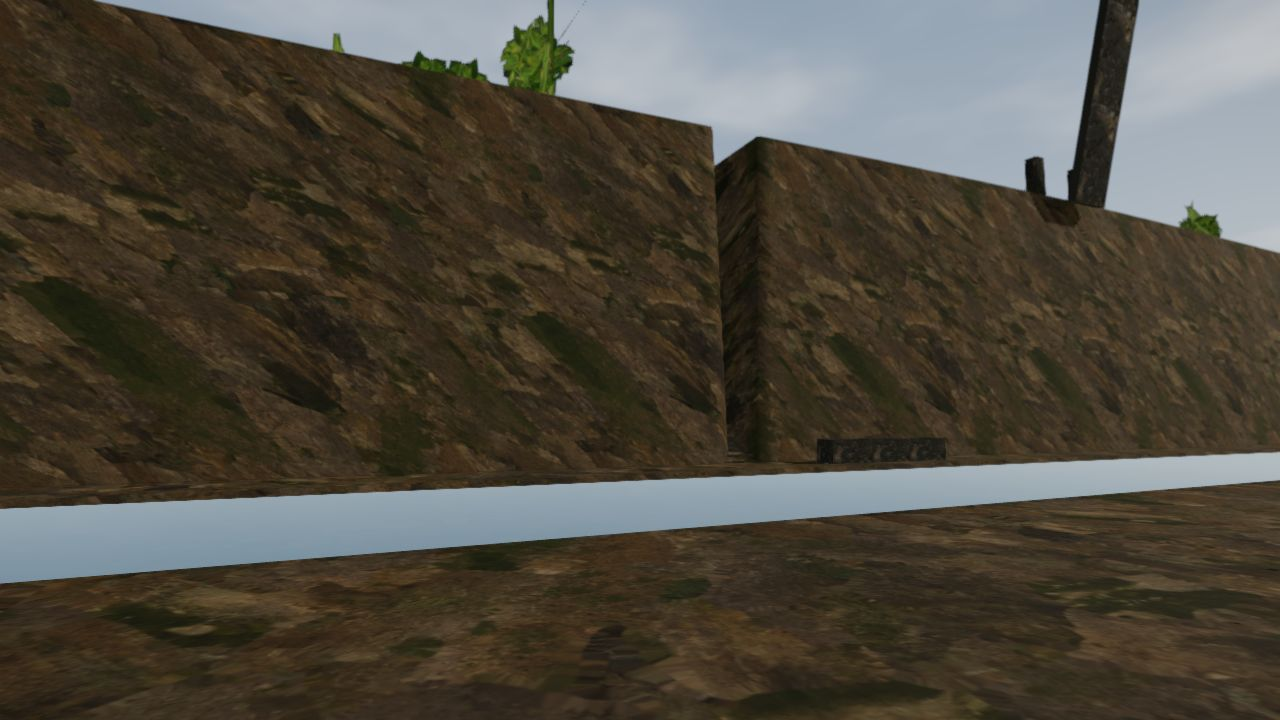
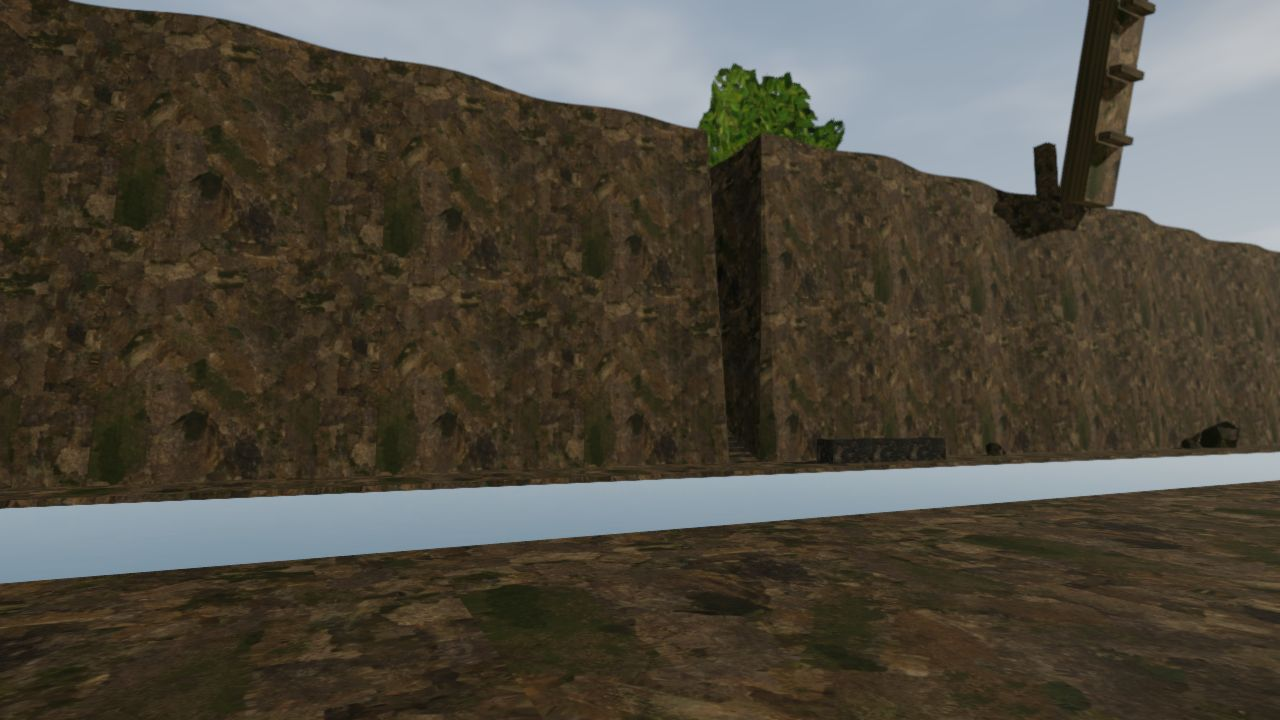
Acte VI, les décors de la rive : la roche des parois projetée face par face (plus de stries), les falaises irrégulières, la Blessure qui serpente jusqu'à l'horizon (elle s'ouvrait sur le ciel, et un plan d'herbe la comblait vue d'en haut), les éboulis, les bosquets, la croix de chemin, un pont de pi

diff --git a/rive.js b/rive.js
@@ -34,13 +34,17 @@ const RIVIERE = [-8, 8], EAU = FOND - 0.3;                         // la rivièr
 const ESC = { x0: -2, x1: 2, z0: SUD, z1: -62, pas: 0.8, haut: 0.4 };   // l'escalier des géants, taillé dans la paroi sud
 const TROUS = [[10, 11.6], [24, 25.6], [38, 39.6]];                // les marches tombées, en mètres le long de l'escalier
 const PONT = { x0: 38, x1: 42 };                                   // le vieux pont des géants, quand il est abaissé
-const BORNES = { x0: -120, x1: 120, z0: -110, z1: 90 };
+const BORNES = { x0: -120, x1: 120, z0: -110, z1: 90 }, LOIN = 760;   // LOIN : jusqu'où la Blessure se voit
 const DEPART = { x: 0, z: 55, yaw: Math.PI };
 const marches = () => state.marches6 || 0;
 
 // la plaine : quelques ondulations, à peine (la Flandre est plate)
 const plaine = (x, z) => Math.sin(x * 0.045) * 0.35 + Math.cos(z * 0.06 + x * 0.02) * 0.3;
+// hors des bornes, la Blessure serpente (tirée au cordeau jusqu'à l'horizon, elle avait l'air d'un fossé) ;
+// entre les bornes elle reste droite : les corniches, l'escalier et le pont y sont posés
+const courbe = (x) => { const d = Math.abs(x) - BORNES.x1; return d > 0 ? Math.sin(d / 70) * 26 * Math.sign(x) * Math.min(1, d / 60) : 0; };
 function relief(x, z) {
+  z -= courbe(x);
   if (z >= BORD_N) return plaine(x, z);
   for (const [z0, z1, y] of CORNICHES) if (z >= z0 && z < z1) return y;
   if (z >= SUD) return z > RIVIERE[0] && z < RIVIERE[1] ? FOND - 1.5 : FOND;      // le lit de la rivière, plus bas
@@ -81,12 +85,23 @@ const TRONCS = [];
 // ---------- le décor ----------
 const R = { eau: null, pont: null, blocs: [] };
 function terrain() {
-  // une grille d'un mètre sur le canyon, deux mètres au-delà : deux maillages sur les mêmes sommets —
-  // l'herbe là où l'on est en haut, la roche dans la Blessure
-  const nx = 241, nz = 201, pos = new Float32Array(nx * nz * 3), uv = new Float32Array(nx * nz * 2);
+  // une grille d'un mètre entre les bornes ; au-delà, de quatre mètres, la Blessure qui file à l'est et à
+  // l'ouest jusqu'à l'horizon (coupée aux bornes, elle s'ouvrait sur le ciel). Deux maillages sur les mêmes
+  // sommets : l'herbe là où l'on est en haut, la roche dans la Blessure
+  const XS = [];
+  for (let x = -LOIN; x < BORNES.x0; x += 4) XS.push(x);
+  for (let x = BORNES.x0; x <= BORNES.x1; x++) XS.push(x);
+  for (let x = BORNES.x1 + 4; x <= LOIN; x += 4) XS.push(x);
+  const nx = XS.length, nz = 201, pos = new Float32Array(nx * nz * 3), uv = new Float32Array(nx * nz * 2);
   for (let j = 0; j < nz; j++) for (let i = 0; i < nx; i++) {
-    const x = BORNES.x0 + i, z = BORNES.z0 + j, k = j * nx + i;
-    const y = relief(x, z); pos.set([x, y, z], k * 3); uv.set([(x + y) / 3, (z - y) / 3], k * 2);   // ± y : les parois, en travers de x comme de z, ne s'étirent pas
+    const x = XS[i], z = BORNES.z0 + j, k = j * nx + i;
+    const y = relief(x, z);
+    // une paroi tirée au cordeau a l'air d'un mur : ses sommets s'écartent un peu (le sol où l'on marche,
+    // relief(), ne bouge pas ; l'écart, d'un mètre au plus, reste dans la roche)
+    let dx = 0, dz = 0;
+    if (Math.abs(relief(x, z - 1) - y) > 2 || Math.abs(relief(x, z + 1) - y) > 2) dz = Math.sin(x * 0.53 + y * 0.71) * 0.45 + Math.sin(x * 0.17 - y * 0.29) * 0.55;
+    if (Math.abs(relief(x - 1, z) - y) > 2 || Math.abs(relief(x + 1, z) - y) > 2) dx = Math.sin(z * 0.61 + y * 0.83) * 0.25;
+    pos.set([x + dx, y, z + dz], k * 3); uv.set([(x + y) / 3, (z - y) / 3], k * 2);   // ± y : les parois, en travers de x comme de z, ne s'étirent pas
   }
   const haut = [], bas = [];
   for (let j = 0; j < nz - 1; j++) for (let i = 0; i < nx - 1; i++) {
@@ -97,13 +112,27 @@ function terrain() {
   const fais = (idx, m) => { const g = new THREE.BufferGeometry(); g.setAttribute('position', new THREE.BufferAttribute(pos, 3)); g.setAttribute('uv', new THREE.BufferAttribute(uv, 2)); g.setIndex(idx); g.computeVertexNormals();
     const o = new THREE.Mesh(g, m); o.receiveShadow = true; scene.add(o); return o; };
   fais(haut, phMat('grass_ground', 1, 1, { color: 0x9aae78 }));
-  fais(bas, phMat('falaise_02', 1, 1, { color: 0xb8ae9c }));
+  // la roche : chaque triangle projeté sur le plan qui lui fait face (des sommets à lui) — avec des UV
+  // partagés, une paroi en travers de x prenait u et v tous deux du seul y, et la pierre filait en stries
+  { const n = bas.length, p = new Float32Array(n * 3), t = new Float32Array(n * 2), A = new THREE.Vector3(), B = new THREE.Vector3(), C = new THREE.Vector3(), N = new THREE.Vector3();
+    for (let k = 0; k < n; k += 3) {
+      A.fromArray(pos, bas[k] * 3); B.fromArray(pos, bas[k + 1] * 3); C.fromArray(pos, bas[k + 2] * 3);
+      N.subVectors(C, B).cross(A.clone().sub(B)); const ax = Math.abs(N.x), ay = Math.abs(N.y), az = Math.abs(N.z);
+      [A, B, C].forEach((v, q) => { p.set([v.x, v.y, v.z], (k + q) * 3);
+        t.set(ay >= ax && ay >= az ? [v.x / 4, v.z / 4] : ax > az ? [v.z / 4, v.y / 4] : [v.x / 4, v.y / 4], (k + q) * 2); }); }
+    const g = new THREE.BufferGeometry(); g.setAttribute('position', new THREE.BufferAttribute(p, 3)); g.setAttribute('uv', new THREE.BufferAttribute(t, 2)); g.computeVertexNormals();
+    const o = new THREE.Mesh(g, phMat('falaise_02', 1, 1, { color: 0xb8ae9c })); o.receiveShadow = true; scene.add(o); }
   // au-delà des bornes, la plaine qui file à l'horizon
-  const loin = new THREE.Mesh(new THREE.PlaneGeometry(3000, 3000), phMat('grass_ground', 300, 300, { color: 0x8a9e6c })); loin.rotation.x = -Math.PI / 2; loin.position.y = -0.4; scene.add(loin);
+  // (quatre bandes autour des bornes : un seul plan à −0,4 m comblait la Blessure, vue d'en haut)
+  const herbe = phMat('grass_ground', 1, 1, { color: 0x8a9e6c }), L = 1500;
+  for (const [x0, x1, z0, z1] of [[-L, L, -L, BORNES.z0 + 0.5], [-L, L, BORNES.z1 - 0.5, L], [-L, -LOIN + 0.5, BORNES.z0, BORNES.z1], [LOIN - 0.5, L, BORNES.z0, BORNES.z1]]) {
+    const o = new THREE.Mesh(new THREE.PlaneGeometry(x1 - x0, z1 - z0), herbe.clone()); o.material.map = o.material.map && o.material.map.clone(); if (o.material.map) { o.material.map.repeat.set((x1 - x0) / 10, (z1 - z0) / 10); o.material.map.needsUpdate = true; }
+    o.rotation.x = -Math.PI / 2; o.position.set((x0 + x1) / 2, -0.4, (z0 + z1) / 2); scene.add(o); }
 }
 function riviere() {
   const m = new THREE.MeshStandardMaterial({ color: 0x5a7a8c, roughness: 0.15, metalness: 0.15, transparent: true, opacity: 0.88 });
-  R.eau = new THREE.Mesh(new THREE.PlaneGeometry(BORNES.x1 - BORNES.x0, RIVIERE[1] - RIVIERE[0], 60, 4), m);
+  R.eau = new THREE.Mesh(new THREE.PlaneGeometry(2 * LOIN, RIVIERE[1] - RIVIERE[0], 240, 4), m);
+  { const p = R.eau.geometry.attributes.position; for (let k = 0; k < p.count; k++) p.setY(k, p.getY(k) - courbe(p.getX(k))); }   // la rivière suit la Blessure
   R.eau.rotation.x = -Math.PI / 2; R.eau.position.set(0, EAU, 0); scene.add(R.eau);
 }
 function escalier() {
@@ -125,9 +154,14 @@ function pont() {
   // le pont des géants : un tablier de pierre de 54 m, sur sa charnière côté autre rive ; relevé, il
   // se dresse au-dessus de la Blessure depuis 620
   const g = new THREE.Group(); g.position.set((PONT.x0 + PONT.x1) / 2, 0, SUD); scene.add(g);
-  const tab = mesh(boxG(PONT.x1 - PONT.x0 + 0.6, 0.8, BORD_N - SUD), phMat('ruines_02', 1, 14, { color: 0xc0b49c }), 0, -0.2, (BORD_N - SUD) / 2);
-  tab.castShadow = true; g.add(tab); R.pont = g;
-  for (const sx of [-1, 1]) { const p = mesh(boxG(1.2, 5, 1.2), phMat('ruines_02', 1, 2, { color: 0xb8ac94 }), sx * 3.4, 2.5, -2.5); p.castShadow = true; g.parent.add(p); p.position.set(g.position.x + sx * 3.4, 2.5, SUD - 2.5); }
+  // un pont de pierre, pas une poutre : un tablier épais, des parapets, des voussoirs dessous (la pierre
+  // de ruines_02 rendait presque noir à cette échelle, rock_wall_14 du liège : la roche des parois)
+  const L = BORD_N - SUD, W = PONT.x1 - PONT.x0, pierre = phMat('falaise_02', 1, 10, { color: 0xd0c4ac }), bord = phMat('falaise_02', 1, 6, { color: 0xc0b49c });
+  const tab = mesh(boxG(W + 0.6, 1.6, L), pierre, 0, -0.6, L / 2); tab.castShadow = tab.receiveShadow = true; g.add(tab);
+  for (const sx of [-1, 1]) { const p = mesh(boxG(0.5, 1, L), bord, sx * (W / 2 + 0.05), 0.7, L / 2); p.castShadow = true; g.add(p); }
+  for (let k = 1; k < 9; k++) { const c = mesh(boxG(W - 0.4, 1.2, 0.7), bord, 0, -1.9, (k / 9) * L); g.add(c); }   // les nervures sous le tablier
+  R.pont = g;
+  for (const sx of [-1, 1]) { const p = mesh(boxG(1.4, 6, 1.4), bord, 0, 0, 0); p.castShadow = true; scene.add(p); p.position.set(g.position.x + sx * (W / 2 + 1.2), 3, SUD - 1.5); }
   majPont();
 }
 function majPont() { R.pont.rotation.x = pontBas() ? 0 : -1.35; }
@@ -138,12 +172,28 @@ function lointain() {
   // quelques arbres sur les deux bords (la forêt du Buc, au lot 2)
   const esp = especeGeo('hetre'); if (!esp) return;
   const places = [];
-  for (let k = 0; k < 70; k++) { const x = BORNES.x0 + 8 + Math.random() * (BORNES.x1 - BORNES.x0 - 16), nord = k % 3 === 0, z = nord ? BORD_N + 12 + Math.random() * 30 : SUD - 12 - Math.random() * 80;
+  // en bosquets (une plaine semée au hasard a l'air d'un jeu) : 26 centres, 8 arbres autour de chacun
+  const centres = [];
+  for (let k = 0; k < 26; k++) { const nord = k % 3 === 0; centres.push([BORNES.x0 + 10 + Math.random() * (BORNES.x1 - BORNES.x0 - 20), nord ? BORD_N + 14 + Math.random() * 30 : SUD - 16 - Math.random() * 78]); }
+  for (let k = 0; k < 208; k++) { const [cx, cz] = centres[k % 26], a = Math.random() * TAU, d = Math.random() * 11, x = cx + Math.cos(a) * d, z = cz + Math.sin(a) * d;
+    if (z < BORD_N + 4 && z > SUD - 4) continue;
     if (Math.abs(x - DEPART.x) < 10 && Math.abs(z - DEPART.z) < 10) continue; if (x > ESC.x0 - 6 && x < ESC.x1 + 6 && z > ESC.z1 - 6) continue; if (x > PONT.x0 - 8 && x < PONT.x1 + 8) continue;
     places.push([x, z]); }
   const tr = new THREE.InstancedMesh(esp.tronc, esp.matT, places.length), hp = new THREE.InstancedMesh(esp.houppier, esp.matH, places.length), m4 = new THREE.Matrix4(), q = new THREE.Quaternion(), s = new THREE.Vector3(), v = new THREE.Vector3();
   places.forEach(([x, z], k) => { const h = 8 + Math.random() * 4; q.setFromAxisAngle(new THREE.Vector3(0, 1, 0), Math.random() * TAU); s.set(h, h, h); m4.compose(v.set(x, relief(x, z) - 0.2, z), q, s); tr.setMatrixAt(k, m4); hp.setMatrixAt(k, m4); TRONCS.push([x, z]); });
   tr.castShadow = hp.castShadow = true; scene.add(tr, hp);
+  // les éboulis : des blocs tombés des parois, au fond et sur les corniches (jamais sur les passages)
+  const roc = phMat('falaise_02', 1, 1, { color: 0xa89e8c }), eb = [];
+  for (let k = 0; k < 90; k++) { const x = BORNES.x0 + 4 + Math.random() * (BORNES.x1 - BORNES.x0 - 8), z = SUD + 0.5 + Math.random() * (BORD_N - SUD - 1);
+    if (Math.abs(x - ANCRES[0][0]) < 5 || (x > PONT.x0 - 3 && x < PONT.x1 + 3) || (x > ESC.x0 - 4 && x < 20 && z < SUD + 6) || dansRiviere(x, z)) continue; eb.push([x, z]); }
+  const ro = new THREE.InstancedMesh(new THREE.DodecahedronGeometry(1, 0), roc, eb.length), m5 = new THREE.Matrix4();
+  eb.forEach(([x, z], k) => { const r = 0.4 + Math.random() ** 2 * 2.2; q.setFromEuler(new THREE.Euler(Math.random() * 3, Math.random() * 3, 0)); s.set(r, r * 0.7, r * 1.1);
+    m5.compose(v.set(x, relief(x, z) + r * 0.25, z), q, s); ro.setMatrixAt(k, m5); });
+  ro.castShadow = ro.receiveShadow = true; scene.add(ro);
+  // la croix de chemin, au bord, côté Lille (SCENARIO.md : « une prairie, une croix de chemin, le vent »)
+  const cr = phMat('ruines_02', 1, 1, { color: 0x9a9284 }), cx = DEPART.x + 7, cz = DEPART.z + 2;
+  scene.add(mesh(boxG(0.35, 3, 0.35), cr, cx, 1.5, cz), mesh(boxG(1.5, 0.3, 0.3), cr, cx, 2.3, cz), mesh(boxG(1.2, 0.5, 1.2), cr, cx, 0.1, cz));
+  TRONCS.push([cx, cz]);
 }
 
 // ---------- les gestes : le lasso, les blocs, le treuil, la fêlure ----------
@@ -190,7 +240,7 @@ function animeLasso(dt) {
 // ---------- le niveau ----------
 function build() {
   makeSky(0x6a7f98, 0xb8c4cc, 0xd8d8d0, true);
-  scene.fog = new THREE.Fog(0xc8ccc8, 90, 900);
+  scene.fog = new THREE.Fog(0xc8ccc8, 80, 640);
   hemi.intensity = 0.75; hemi.color.setHex(0xe8eef4); hemi.groundColor.setHex(0x4a4a3a);
   sun.intensity = 2.2; sun.color.setHex(0xfff2e0); sun.castShadow = true;
   Object.assign(sun.shadow.camera, { left: -130, right: 130, top: 130, bottom: -130, near: 1, far: 500 }); sun.shadow.camera.updateProjectionMatrix();
